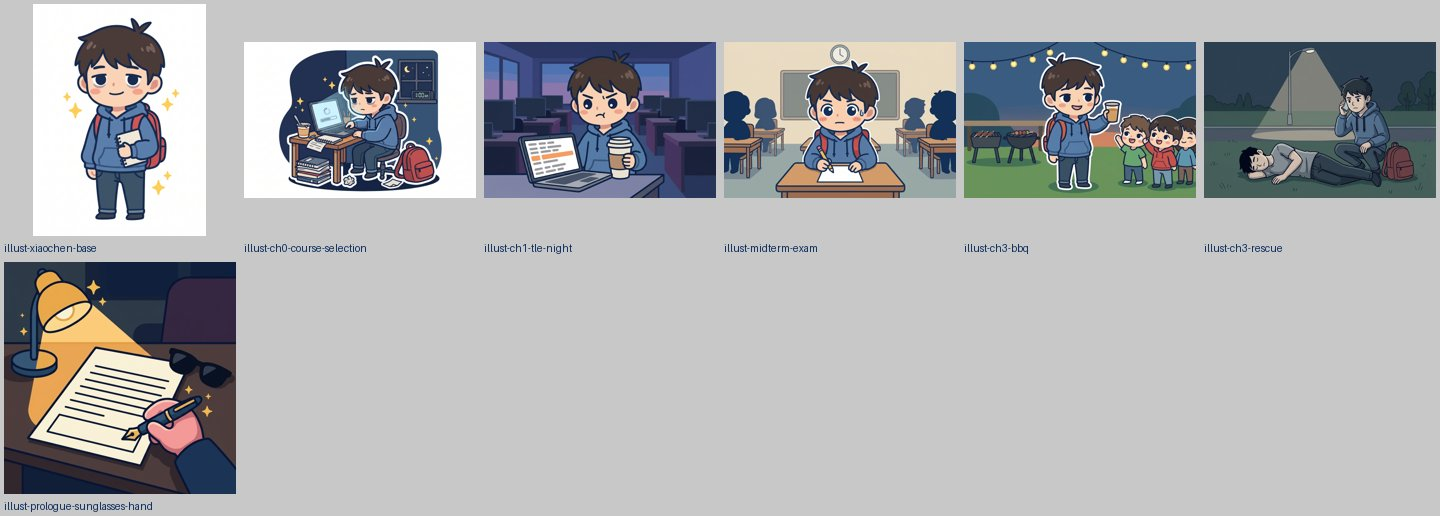
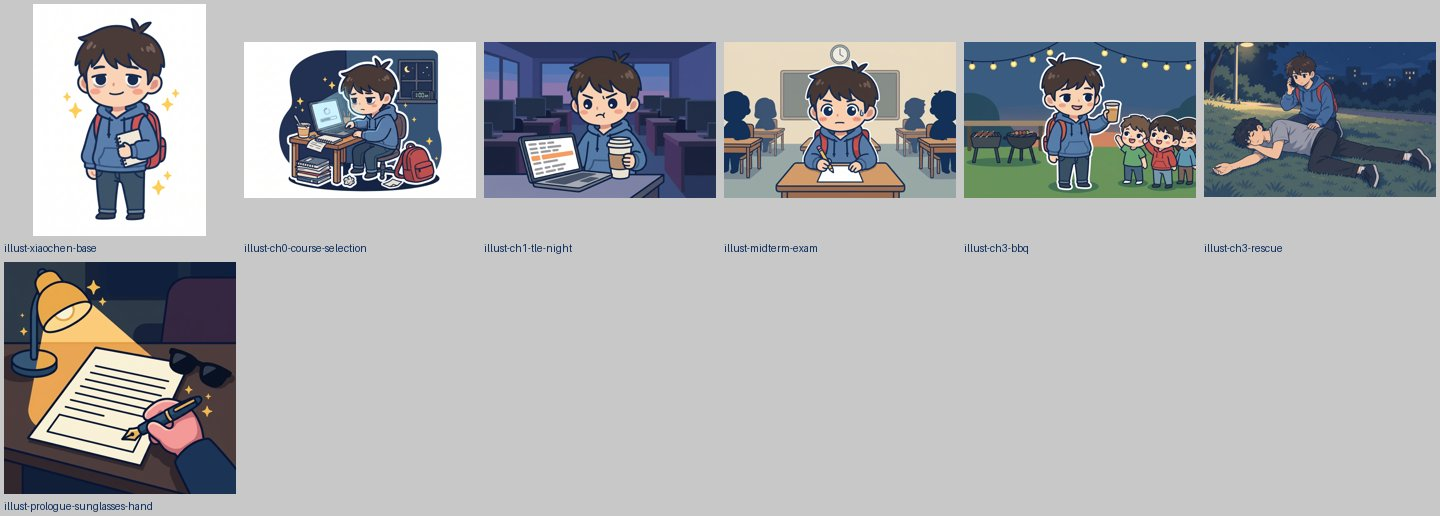
Replace rescue illustration with v2, held for medical review
The v2 image (ChatGPT gpt-image) passes the recovery-position self-check:
side-lying, upper knee bent and on the ground, upper hand under the cheek.
Head tilt is mild and left to the reviewer. It stays out of public/assets
until Wang Chen-ai reviews the pose. The v1 image remains in Git history.

Changed region(s): [[0.8125, 0.062, 1.0, 0.3721]]

diff --git a/tools/art/postprocess.py b/tools/art/postprocess.py
@@ -45,8 +45,9 @@ NOT_ADOPTED = {
     "prop-night-window": "drawn as a slanted perspective strip that shrinks to a sliver at 128 x 32; "
                          "art-src/drafts/props/window-night-band.png is drawn in code instead",
 }
-HOLD = {"illust-ch3-rescue": "fails the recovery-position self-check (legs straight, head on the lower arm); "
-                             "regenerate with the v2 prompt, then Wang Chen-ai reviews (6.5)"}
+HOLD = {"illust-ch3-rescue": "v2 passes the self-check (side-lying, upper knee on the ground, upper hand under "
+                             "the cheek; head tilt is mild); waits for the recovery-position review by "
+                             "Wang Chen-ai (6.5)"}
 
 # Step 4 outcome after looking at every raw image: ids with generated writing left in.
 TEXT_LEFT = {}

diff --git a/art-src/ai/raw/README.md b/art-src/ai/raw/README.md
@@ -20,7 +20,7 @@
 | `prop-glucose-box` | 白箱藍帶，與倉庫色票 `#F2D27A` 矛盾；白色箱身也會讓可推箱的白色角標看不見 | 指南第 7.4 節已統一為黃色箱身加白標籤。依第 7.4 節「紙箱類共用一個方箱骨架」，五個方箱類 AI 圖（葡萄糖箱、乙醛箱、核心傾印箱、福利紙箱兩態）第 1 步判定不用，遊戲中改用 `art-src/drafts/props/` 的程式方箱骨架 |
 | `prop-exam-projector` | 底色為淺灰而非純白 | 去背容差已涵蓋，無殘留 |
 | `illust-ch0-course-selection` | 畫成白底貼紙圖，不是滿版場景，與其他插圖不一致 | 可接受；若要統一則重生 |
-| `illust-ch3-rescue` | 側躺姿勢需醫療審查 | PM 先依指南第 6.5 節的四個條件自查：側臥符合；兩腿伸直併攏，上方腿沒有彎曲撐地；頭沒有明顯後仰；頭枕在下方手臂上，上方手臂橫在身前而不是墊在臉頰下。判定不合格，prompt 已改為逐肢體描述的第二版，需重新生成，自查通過後再交王晨嬡審。審過之前不放進 `public/assets/`（紀錄狀態為 `held`） |
+| `illust-ch3-rescue` | 側躺姿勢需醫療審查 | PM 先依指南第 6.5 節的四個條件自查：側臥符合；兩腿伸直併攏，上方腿沒有彎曲撐地；頭沒有明顯後仰；頭枕在下方手臂上，上方手臂橫在身前而不是墊在臉頰下。判定不合格，prompt 已改為逐肢體描述的第二版。第二版以 ChatGPT 生成，自查結果：側臥符合；靠近畫面的上方腿髖與膝皆彎曲、膝蓋在身前著地，遠側的下方腿伸直，符合；下方手臂伸直、掌心朝上，上方手背墊在臉頰下，符合；頭後仰幅度輕微，留給王晨嬡判斷。第一版原圖已由第二版取代，舊檔可從 Git 歷史取回。審過之前不放進 `public/assets/`（紀錄狀態為 `held`） |
 | 多張頭像 | 背景有星星裝飾 | 後製腳本自動移除脫離主體的小型黃、白、粉橘色塊，汗滴與腺苷的「z」保留 |
 | `portrait-adenosine-base` | 虛線輪廓有缺口，白底去背會灌進淡紫色身體 | 後製腳本對這張先封閉外框缺口再去背 |
 | `portrait-toast-boss-*` | 炭灰西裝與墨藍只差 54（RGB 距離），外框校正門檻過寬時西裝會被染成墨藍 | 門檻已收到 34 |
